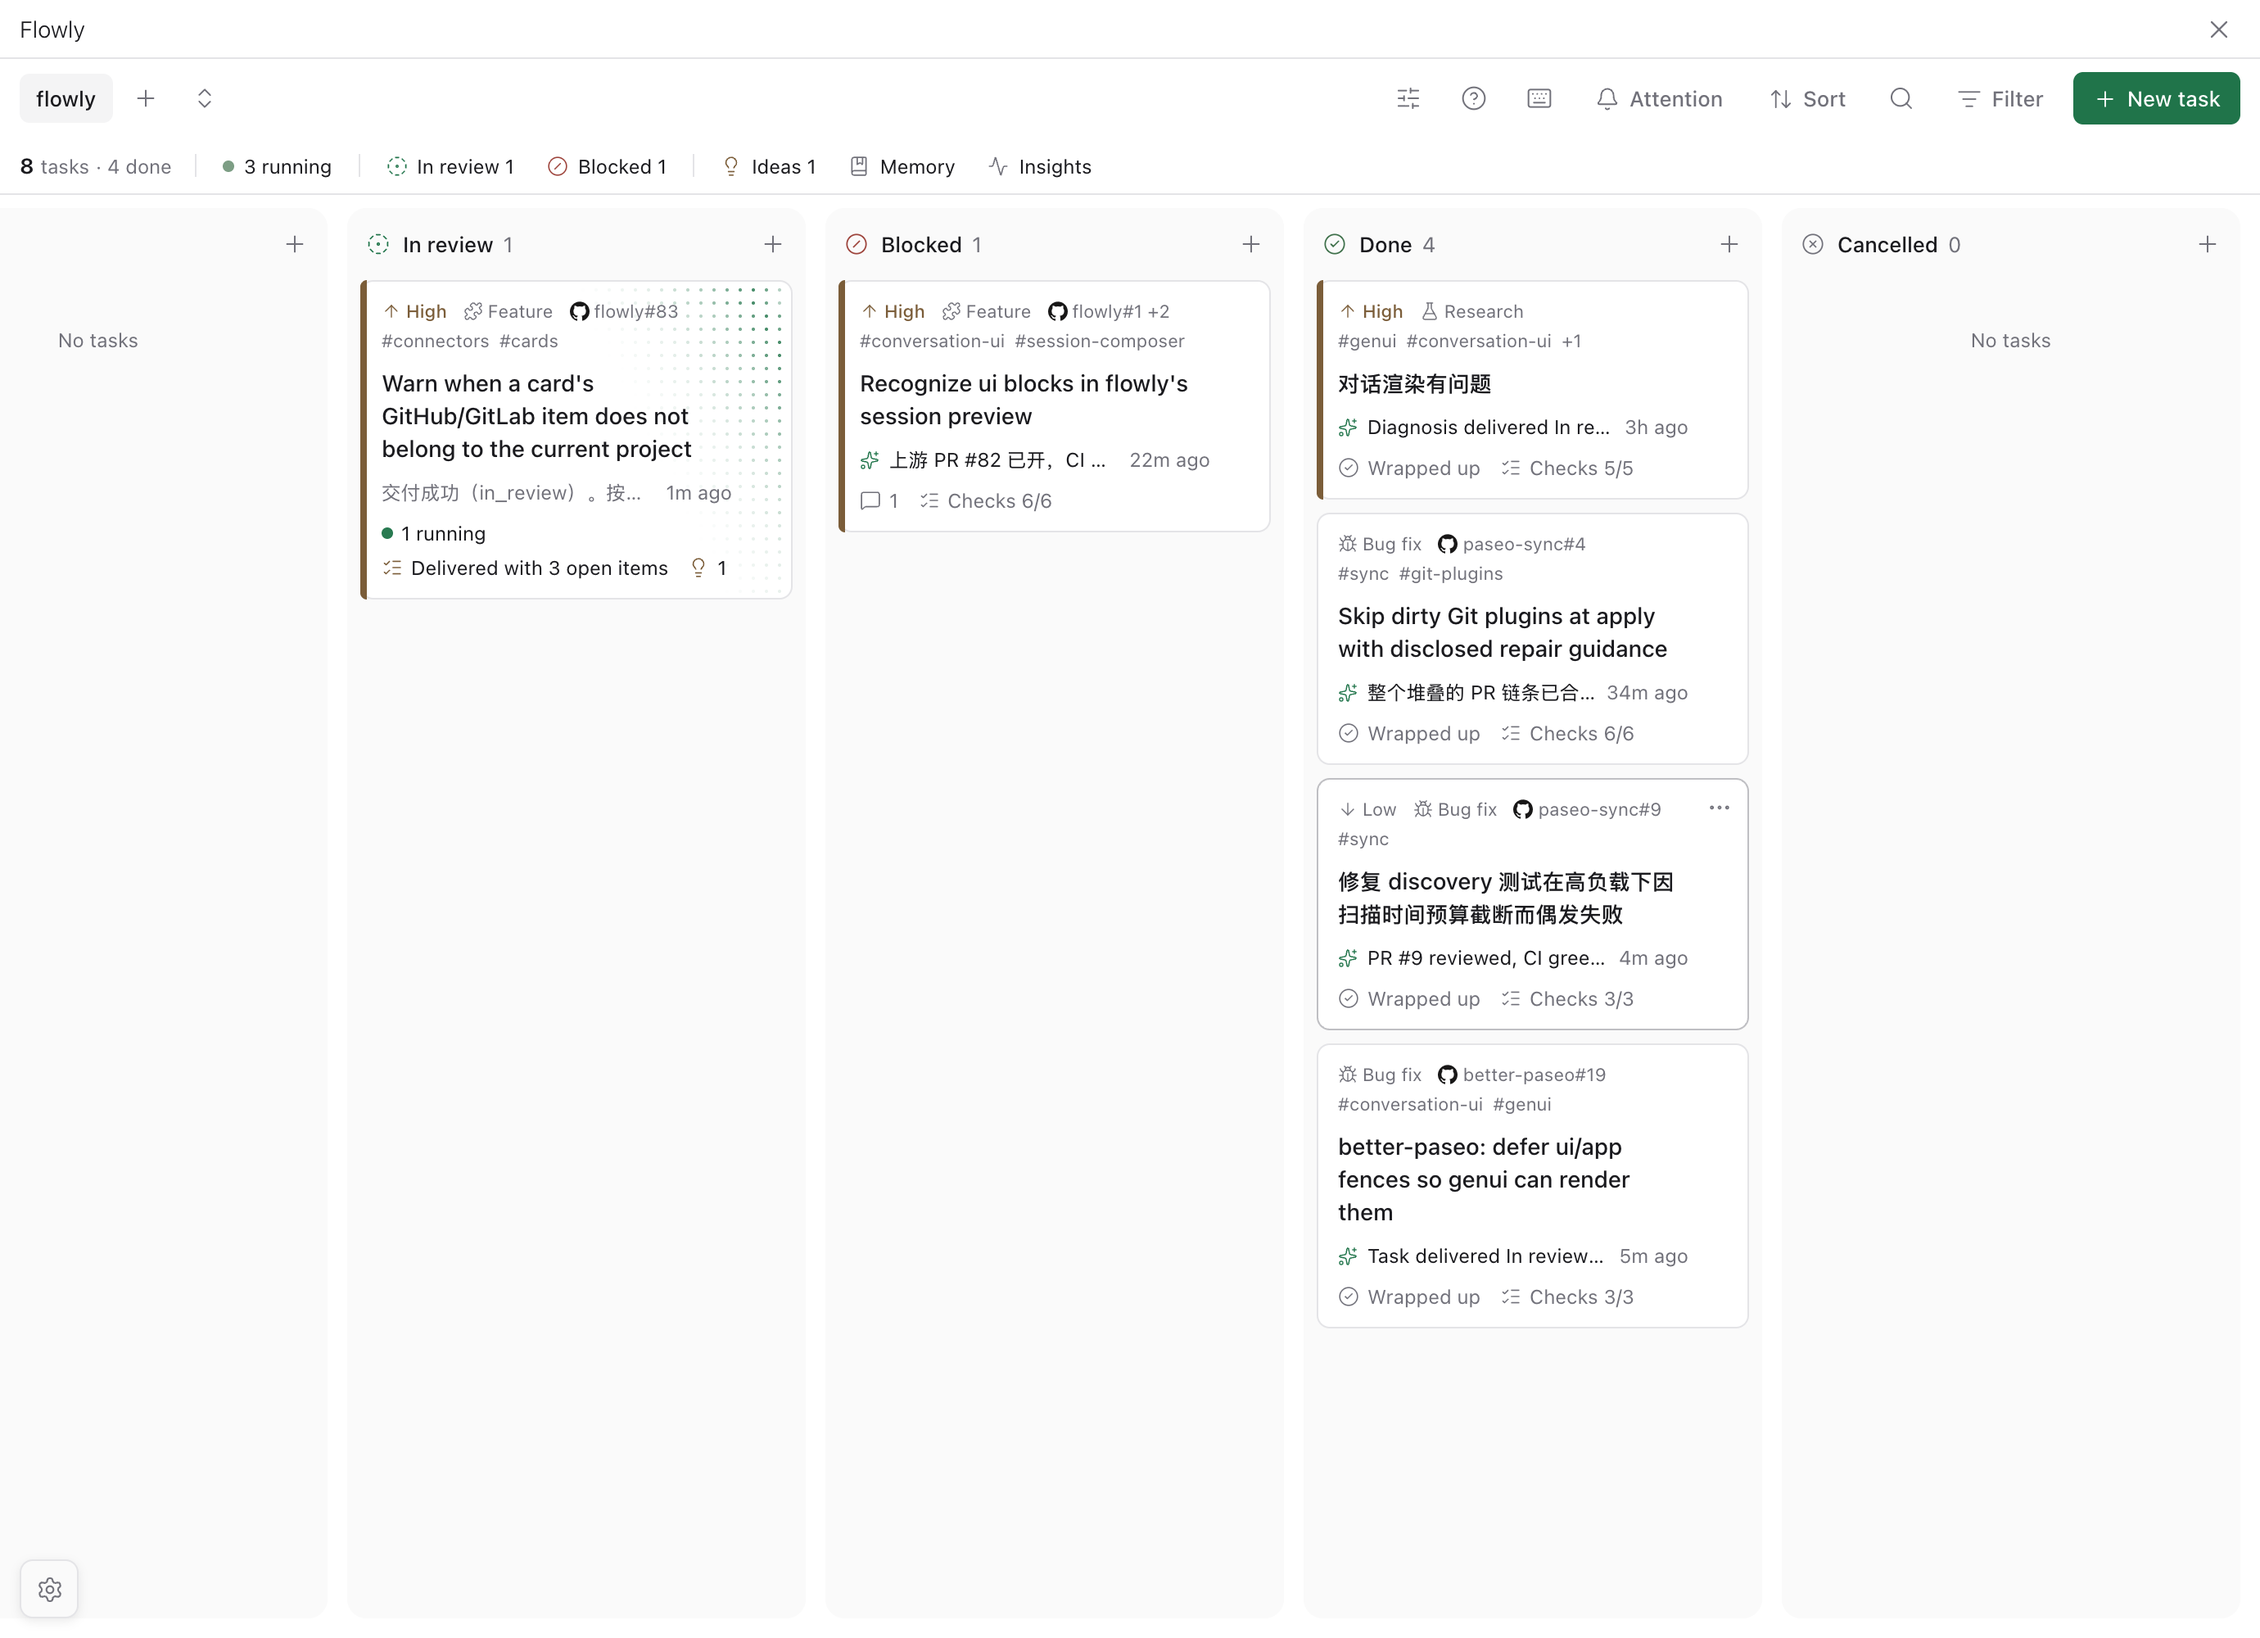
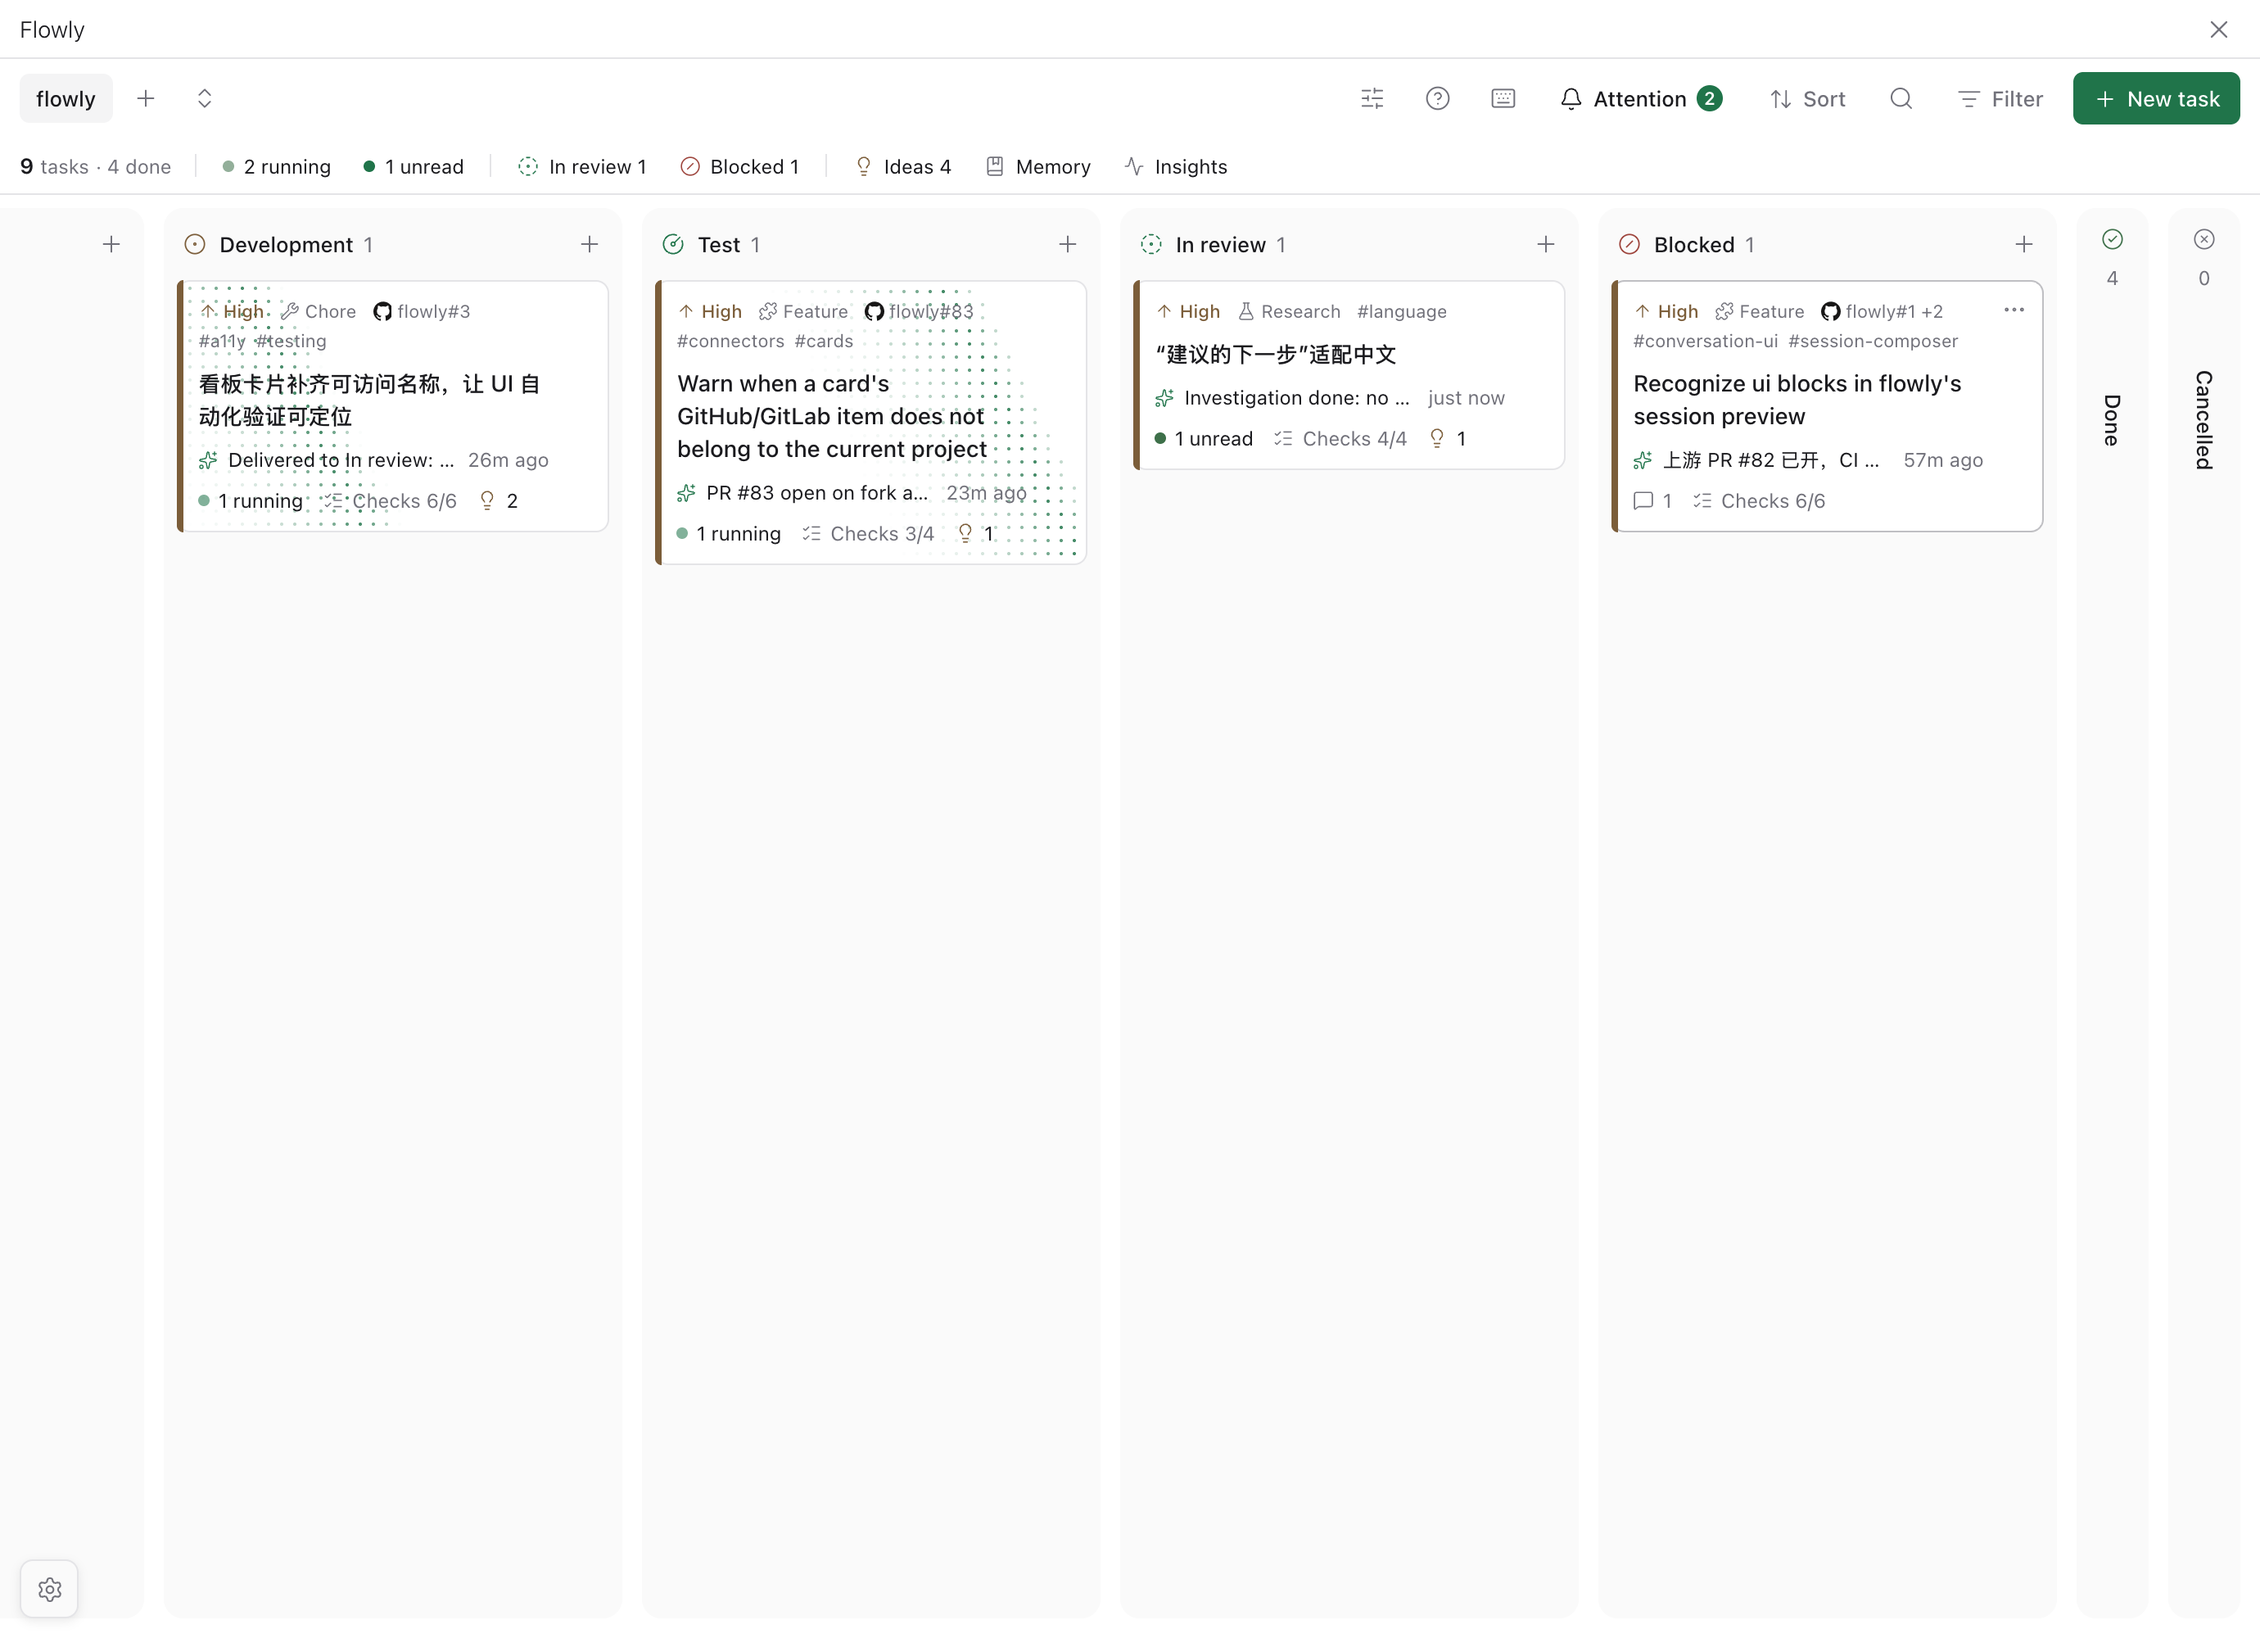
docs(promo): review fixes — chooser fallback for compact, unambiguous openCard
open() falls back to the toolbar "Project: …" switcher when the tab row's
"All projects" chevron does not exist (compact layouts) and verifies the
chosen project through the switcher's name as well as the tab leaf.
openCard requires exactly one title match and reports a clear error on
zero or several instead of clicking the first hit; run.mjs counts
uncaught page errors into passed and takes the second card via --second
(titles move with their cards). PROGRESS names the actual project the
acceptance ran on (flowly; no Tinylink fixture on that daemon).

diff --git a/docs/PROGRESS.md b/docs/PROGRESS.md
@@ -1024,5 +1024,5 @@ Phase 2 spec: [PHASE-02-SPEC.md](PHASE-02-SPEC.md). Three current-card tools; au
 - 来源卡：看板卡片补齐可访问名称，让 UI 自动化验证可定位。此前卡片可访问名称不含泳道、无 testID，Playwright `getByText` 只命中宿主侧栏同名会话条目，pager/横向滚动落点不定时点卡片经常点空；按 [UI-UX-SPEC §2](UI-UX-SPEC.md#2-board-toolbar-and-secondary-controls) 2026-11-04 automation names 条（本次新增）落契约。
 - `client/card-label.ts`（新，纯模块）：`taskCardLabel` 拼卡片可访问名称——"Open task {title}. {lane}."开头（lane 即业务状态，覆盖“泳道+状态”），后接原有全部事实段；`workpadText` 一并移入。`client/card.tsx` 渲染处加 `testID="card-{taskId}"`；`client/board.tsx` 传入 `lane={nameOf(status)}`，状态菜单行加 `lane-tab-{status}`、紧凑状态行加 `lane-chooser`；`client/lane-pager.tsx` 页加 `lane-page-{status}`；`Row`（`client/ui.tsx`）支持 `testID`。`priorityLabels` 移到 `shared/model.ts`（与 statusLabels/taskTypeLabels 同处），`client/status.tsx` 原位 re-export，调用方不变。
 - `docs/promo/shot-lib.mjs`：`open()` 的 Flowly 入口与项目 tab 改为按横向带（侧栏 / 插件 tab 行）精确文本定点点击，找不到即抛错，不再静默停在错误项目；看板就绪等待改为 testID/aria-label（不依赖语言）。新增 `openCard(s, title)`（仅凭标题：`getByRole("button", { name: /^Open task {title}\./ })` 点击并等待 `task-drawer-motion` 显示该标题）与 `closeCard(s)`（Esc + 等 pointer-events 失效）。
-- 测试：`client/card-label.test.ts`（标题+泳道开头、无泳道省略、信号段顺序、优先级/类型段）。验证脚本 `docs/verification/board-card-open-2026-11-05/run.mjs`：真机 web 上仅凭标题连续 5 次打开并关闭指定卡片侧栏（Tinylink 固定演示项目），详见该目录 report。
+- 测试：`client/card-label.test.ts`（标题+泳道开头、无泳道省略、信号段顺序、优先级/类型段）。验证脚本 `docs/verification/board-card-open-2026-11-05/run.mjs`：真机 web 上仅凭标题连续 5 次打开并关闭指定卡片侧栏（真实 flowly 项目——本机 daemon 未建过 Tinylink fixture），详见该目录 report。
 - 引导：无 UI/入口变化，不加导览、提示或 What's new。遥测：不加字段。无新用户可见字符串（lane 名为已有本地化数据）。性能：仅多一个字符串段与既有 testID 属性，卡片 memo 比较含 lane 字符串。
